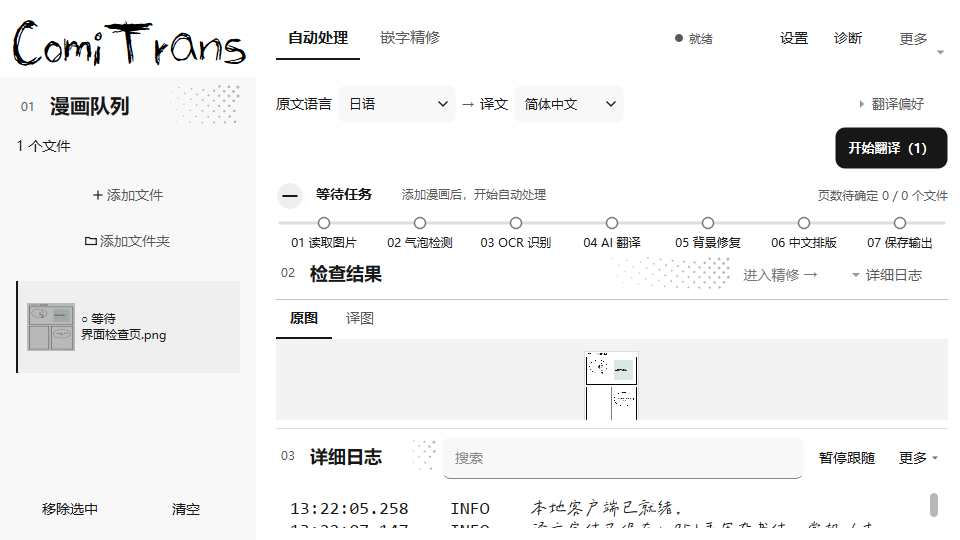
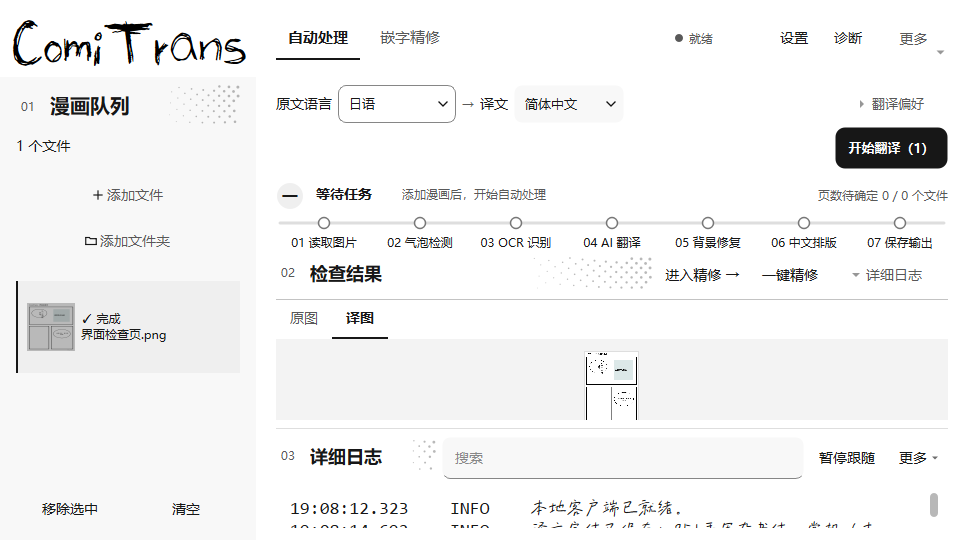
docs: capture one-click retouch and the animated preferences foldout

diff --git a/scripts/review_ui.py b/scripts/review_ui.py
@@ -125,7 +125,7 @@ def main():
                 capture('automatic', window.translate_tab,
                         (window._add_btn, window._start_btn))
                 window._pref_toggle.setChecked(True)
-                QTest.qWait(80)
+                QTest.qWait(320)
                 capture('automatic-preferences', window.translate_tab,
                         (window._font_picker.combo, window._font_picker.import_button,
                          window._font_picker.library_button))
@@ -289,6 +289,8 @@ def main():
                 QTest.qWait(60)
                 window._add_paths([page])
                 capture('automatic-preview', window.translate_tab)
+                window._on_image_done(str(page), str(page))
+                capture('automatic-complete', window.translate_tab)
                 for width, height in ((1024, 720), (960, 540), (820, 480)):
                     window.resize(min(width, int(screen.width() * .94)), min(height, int(screen.height() * .94)))
                     capture(f'automatic-{width}', window.translate_tab,

diff --git a/docs/UI_UPGRADE_PLAN_2026-11-06.md b/docs/UI_UPGRADE_PLAN_2026-11-06.md
@@ -26,6 +26,7 @@
 - [x] P2 动效：页面淡入、偏好折叠淡入、运行中状态点呼吸；设置里可「减少动效」
 - [x] P0-2 收尾：缩放 HUD（右下角百分比胶囊，900ms 淡出）与缩放工具（Z 切换，点击放大 / Alt+点击缩小）
 - [x] 详细配置页：设置新增「04 详细配置」，集中最大并行页数、PDF 渲染 DPI、默认字号、字体判别采样与五个模型路径，带模型检查与「恢复推荐默认值」
+- [x] 一键精修：自动处理页把上次任务的图片 / PDF 一次加入嵌字精修列表；翻译偏好展开改为高度动画，大窗口保留日志面板，去掉透明度效果与面板跳变
 
 ---
 
